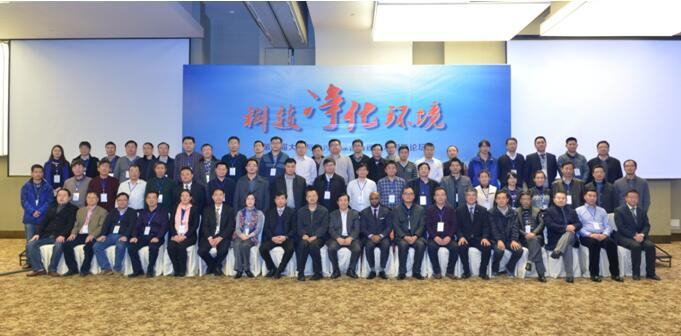
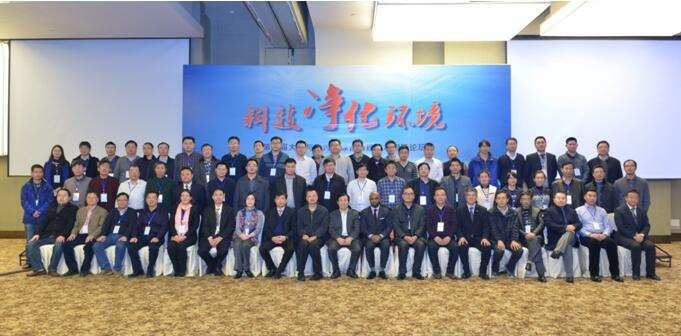
optimise large images

Changed region(s): [[0.4626, 0.2679, 0.6476, 0.3869], [0.3392, 0.3274, 0.4317, 0.3869], [0.8634, 0.6845, 0.8943, 0.7143]]

diff --git a/src/data/about/aboutdatabasic.js b/src/data/about/aboutdatabasic.js
@@ -1,7 +1,7 @@
 import image1 from '../../images/about/about.jpg';
-import image2 from '../../images/about/structure.png';
-import image3 from '../../images/about/achievements1.png';
-import image4 from '../../images/about/achievements2.png';
+import image2 from '../../images/about/structure.jpg';
+import image3 from '../../images/about/achievements1.jpg';
+import image4 from '../../images/about/achievements2.jpg';
 import image5 from '../../images/about/social1.jpg';
 import image6 from '../../images/about/social2.jpg';
 
